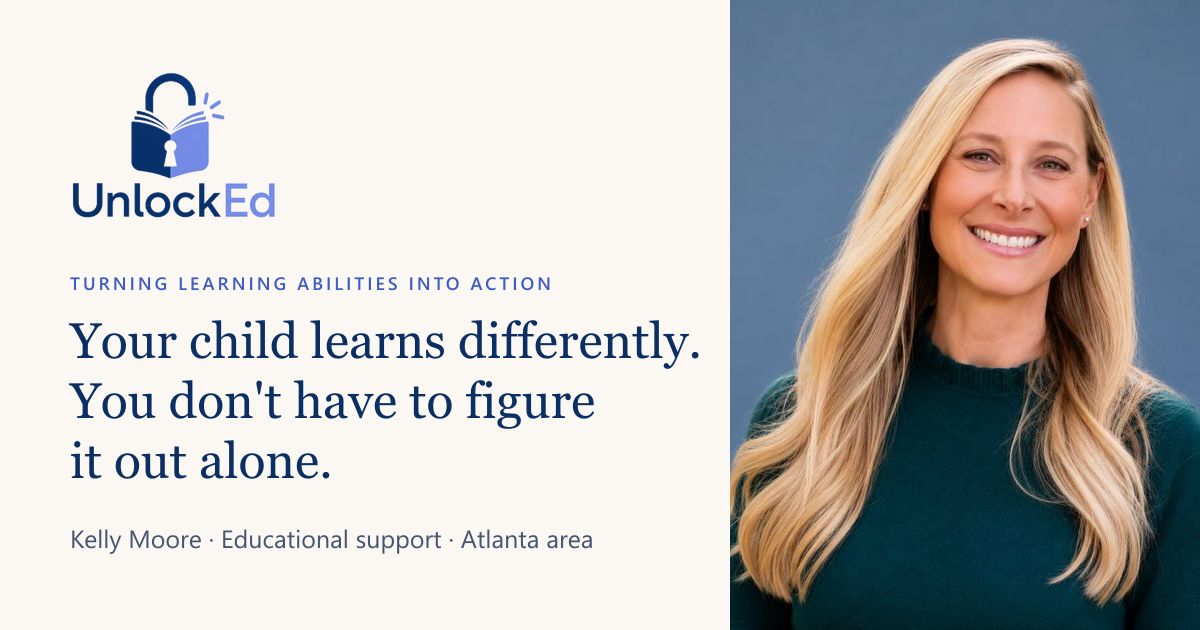
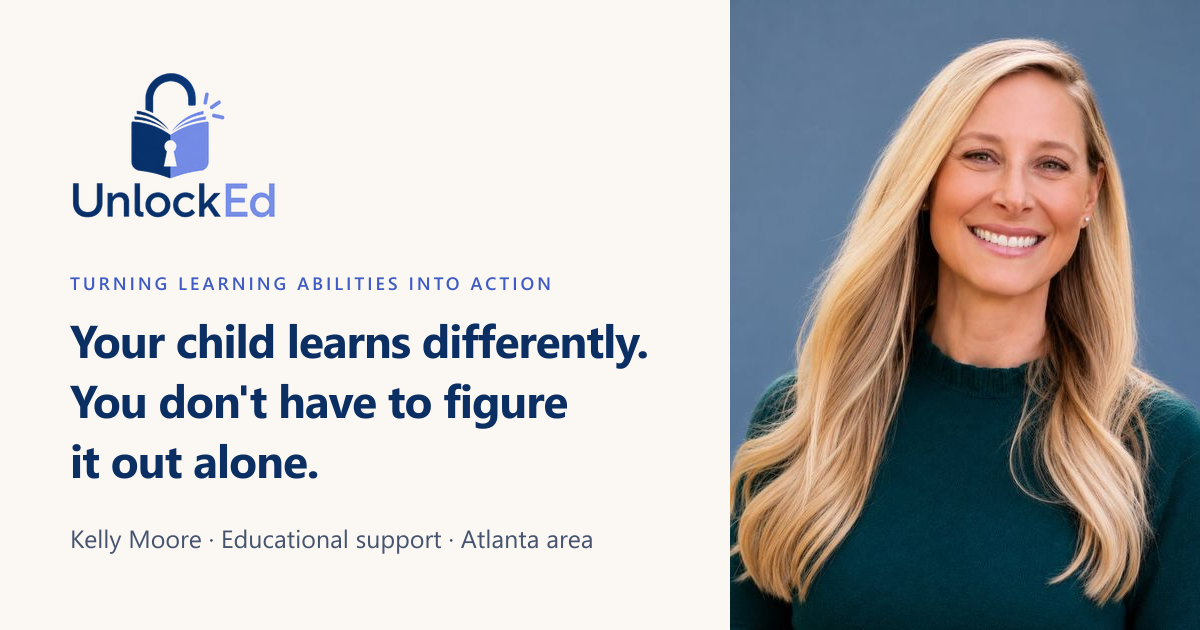
Switch headings to sans serif
Drops the serif display font so the whole site uses Plus Jakarta Sans, with bolder heading weights. Link preview image regenerated in sans serif too.

Changed region(s): [[0.0617, 0.5127, 0.5858, 0.6032], [0.0617, 0.6032, 0.4933, 0.6937], [0.0617, 0.6937, 0.2775, 0.7841]]

diff --git a/src/app/assessment/page.tsx b/src/app/assessment/page.tsx
@@ -293,7 +293,7 @@ function WelcomeScreen({ onStart }: { onStart: () => void }) {
         <p className="text-[13px] font-semibold uppercase tracking-[0.14em] text-periwinkle-deep">
           Strengths Snapshot · 3 minutes
         </p>
-        <h1 className="font-display text-[2.3rem] font-medium leading-[1.1] text-ink sm:text-5xl">
+        <h1 className="font-display text-[2.2rem] font-bold leading-[1.1] tracking-[-0.02em] text-ink sm:text-[2.9rem]">
           What is your child good at?
         </h1>
         <p className="text-lg leading-relaxed text-ink-soft">
@@ -458,7 +458,7 @@ function ResultsScreen({ results, onRetake }: { results: Results; onRetake: () =
         <p className="text-[13px] font-semibold uppercase tracking-[0.14em] text-periwinkle-deep">
           Your Strengths Snapshot
         </p>
-        <h2 className="font-display text-[2.1rem] font-medium leading-tight text-ink sm:text-4xl">
+        <h2 className="font-display text-[2rem] font-bold leading-tight tracking-[-0.02em] text-ink sm:text-[2.4rem]">
           Here&apos;s what stood out about your child.
         </h2>
         <p className="text-[16px] text-ink-soft">Tap a strength to read more.</p>
@@ -532,7 +532,7 @@ function ResultsScreen({ results, onRetake }: { results: Results; onRetake: () =
       </div>
 
       <div className="rounded-3xl bg-ink p-6 sm:p-8">
-        <p className="font-display text-xl leading-snug text-white sm:text-2xl">
+        <p className="font-display font-semibold text-xl leading-snug text-white sm:text-2xl">
           The same wiring that makes some things hard often comes with real strengths.
           Knowing them gives you, and your child, somewhere to build from.
         </p>

diff --git a/src/app/layout.tsx b/src/app/layout.tsx
@@ -1,17 +1,11 @@
 import type { Metadata } from "next";
-import { Fraunces, Plus_Jakarta_Sans } from "next/font/google";
+import { Plus_Jakarta_Sans } from "next/font/google";
 import { SITE_URL } from "@/lib/site";
 import "./globals.css";
 
 const jakarta = Plus_Jakarta_Sans({
   subsets: ["latin"],
   variable: "--font-jakarta",
-  display: "swap",
-});
-
-const fraunces = Fraunces({
-  subsets: ["latin"],
-  variable: "--font-fraunces",
   display: "swap",
 });
 
@@ -52,7 +46,7 @@ export default function RootLayout({
   children: React.ReactNode;
 }>) {
   return (
-    <html lang="en" className={`${jakarta.variable} ${fraunces.variable} h-full antialiased`}>
+    <html lang="en" className={`${jakarta.variable} h-full antialiased`}>
       <body className="min-h-full flex flex-col font-sans bg-cream text-ink">{children}</body>
     </html>
   );

diff --git a/src/components/sections/ChallengeCards.tsx b/src/components/sections/ChallengeCards.tsx
@@ -236,7 +236,7 @@ export default function ChallengeCards() {
                 onClick={() => setOpenId(d.id)}
                 className="group flex h-full w-full flex-col rounded-3xl border border-line bg-white p-6 text-left transition-colors duration-200 hover:border-ink/30"
               >
-                <h3 className="font-display text-[1.45rem] text-ink">{d.name}</h3>
+                <h3 className="font-display text-[1.3rem] text-ink">{d.name}</h3>
                 <p className="mt-2 flex-1 text-[16px] leading-relaxed text-ink-soft">{d.line}</p>
                 <span className="mt-5 inline-flex items-center gap-1.5 text-[15px] font-semibold text-periwinkle-deep">
                   Read more

diff --git a/src/components/sections/Services.tsx b/src/components/sections/Services.tsx
@@ -83,7 +83,7 @@ export default function Services() {
           {services.map((s, i) => (
             <Reveal key={s.name} delay={(i % 2) * 0.05} className="border-t border-line py-8">
               <p className="text-[13px] font-medium text-ink-soft">{s.forWhom}</p>
-              <h3 className="mt-1.5 font-display text-[1.55rem] leading-snug text-ink">{s.name}</h3>
+              <h3 className="mt-1.5 font-display text-[1.4rem] leading-snug text-ink">{s.name}</h3>
               <p className="mt-3 text-[16px] leading-relaxed text-ink-soft sm:text-[17px]">{s.text}</p>
               {s.list && (
                 <ul className="mt-4 flex flex-wrap gap-2">

diff --git a/src/components/sections/Resources.tsx b/src/components/sections/Resources.tsx
@@ -81,7 +81,7 @@ function Column({ heading, items }: { heading: string; items: Item[] }) {
               className="group flex items-start justify-between gap-4 py-5"
             >
               <span>
-                <span className="block font-display text-[1.2rem] leading-snug text-ink group-hover:text-periwinkle-deep transition-colors">
+                <span className="block font-display font-semibold text-[1.1rem] leading-snug text-ink group-hover:text-periwinkle-deep transition-colors">
                   {it.title}
                 </span>
                 {it.by && <span className="mt-0.5 block text-[14px] text-ink-soft">{it.by}</span>}

diff --git a/src/components/sections/SoundFamiliar.tsx b/src/components/sections/SoundFamiliar.tsx
@@ -35,7 +35,7 @@ export default function SoundFamiliar() {
         </ul>
 
         <Reveal className="mt-12 rounded-3xl bg-sand px-6 py-8 sm:px-10 sm:py-10">
-          <p className="max-w-3xl font-display text-xl leading-snug text-ink sm:text-2xl">
+          <p className="max-w-3xl font-display font-semibold text-xl leading-snug text-ink sm:text-2xl">
             Whether your child has a formal diagnosis, or you simply sense that they need
             help and aren&apos;t sure where to begin, UnlockEd was created to help you make
             sense of it all.

diff --git a/src/components/sections/HeroSection.tsx b/src/components/sections/HeroSection.tsx
@@ -26,7 +26,7 @@ export default function HeroSection() {
             Turning learning abilities into action
           </p>
 
-          <h1 className="mt-5 font-display text-[2.5rem] leading-[1.08] tracking-[-0.015em] text-ink sm:text-[3.4rem] lg:text-[3.9rem] font-medium">
+          <h1 className="mt-5 font-display text-[2.4rem] leading-[1.08] tracking-[-0.02em] text-ink sm:text-[3.3rem] lg:text-[3.75rem] font-bold">
             Your child learns differently.{" "}
             <span className="relative inline-block">
               You don&apos;t have to

diff --git a/src/components/sections/MeetKelly.tsx b/src/components/sections/MeetKelly.tsx
@@ -59,7 +59,7 @@ export default function MeetKelly() {
           </Reveal>
 
           <Reveal className="my-10 border-l-[3px] border-periwinkle pl-6">
-            <p className="max-w-xl font-display text-[1.6rem] leading-snug text-ink sm:text-[1.9rem]">
+            <p className="max-w-xl font-display font-semibold text-[1.5rem] leading-snug text-ink sm:text-[1.8rem]">
               She is known for advocating for students as if they were her own.
             </p>
           </Reveal>

diff --git a/src/components/layout/Navigation.tsx b/src/components/layout/Navigation.tsx
@@ -115,7 +115,7 @@ export default function Navigation() {
                     <a
                       href={l.href}
                       onClick={() => setOpen(false)}
-                      className="flex min-h-[56px] items-center font-display text-xl text-ink"
+                      className="flex min-h-[56px] items-center font-display font-semibold text-xl text-ink"
                     >
                       {l.label}
                     </a>

diff --git a/src/components/ui/SectionHeading.tsx b/src/components/ui/SectionHeading.tsx
@@ -27,7 +27,7 @@ export default function SectionHeading({
       )}
       <h2
         className={cn(
-          "font-display text-[2rem] leading-[1.15] sm:text-[2.6rem] font-medium tracking-[-0.01em]",
+          "font-display text-[1.95rem] leading-[1.15] sm:text-[2.5rem] tracking-[-0.015em]",
           tone === "dark" ? "text-ink" : "text-white"
         )}
       >

diff --git a/src/app/globals.css b/src/app/globals.css
@@ -12,7 +12,14 @@
   --color-line: #e6dfd3;
 
   --font-sans: var(--font-jakarta);
-  --font-display: var(--font-fraunces);
+  --font-display: var(--font-jakarta);
+}
+
+@layer base {
+  .font-display {
+    font-weight: 700;
+    letter-spacing: -0.01em;
+  }
 }
 
 html {
